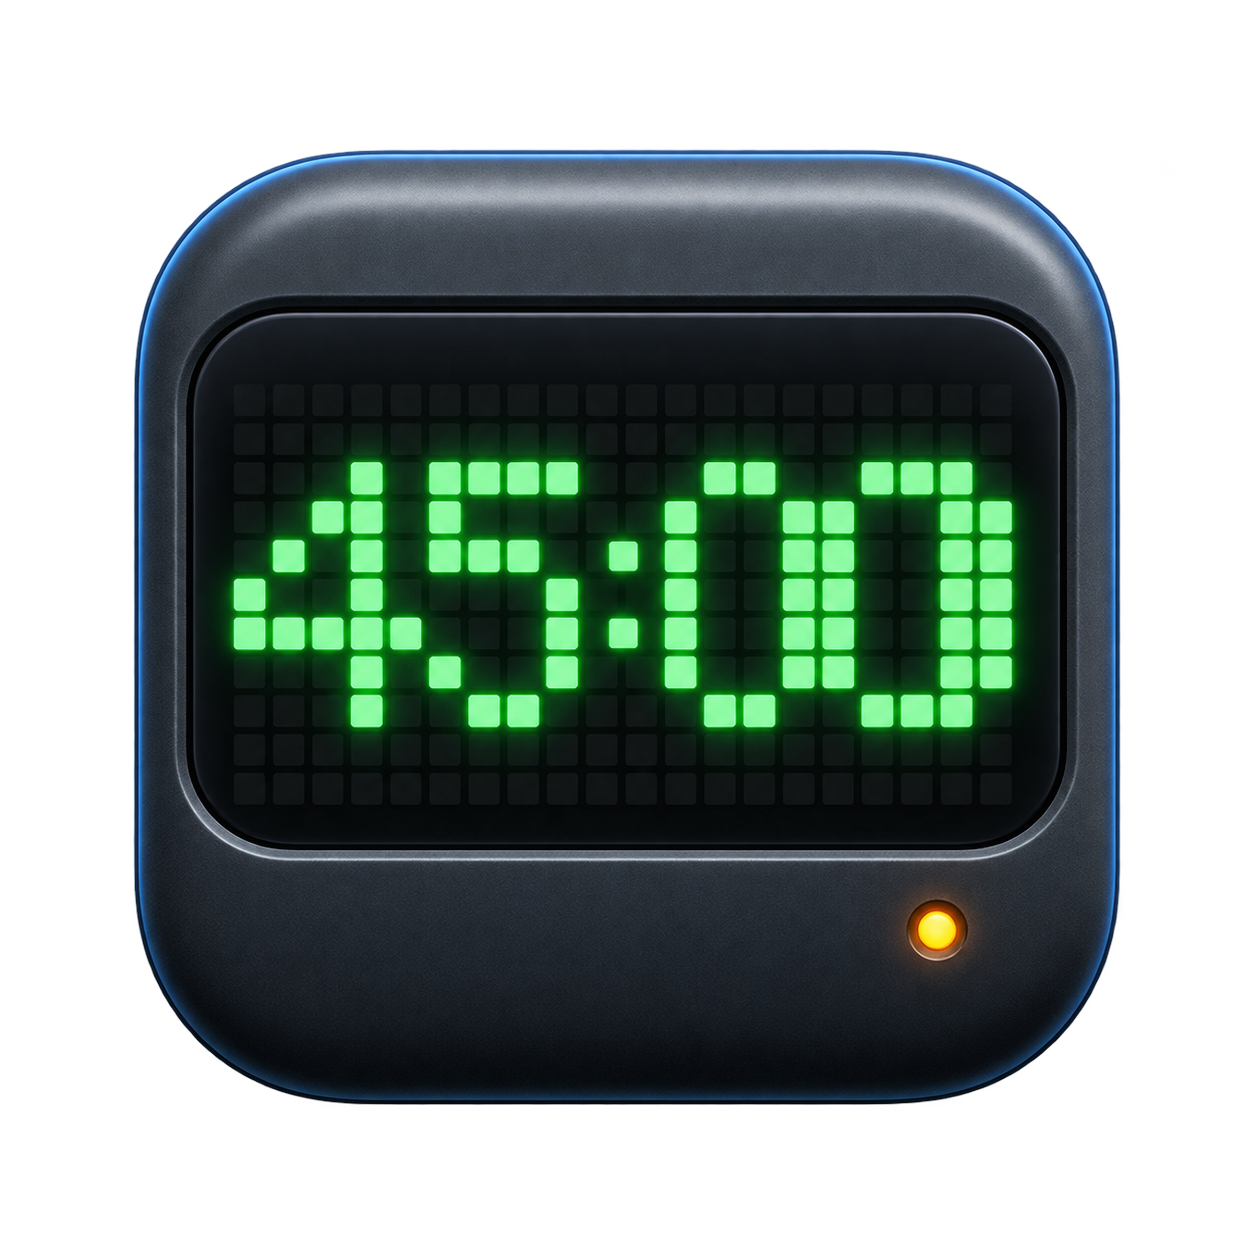
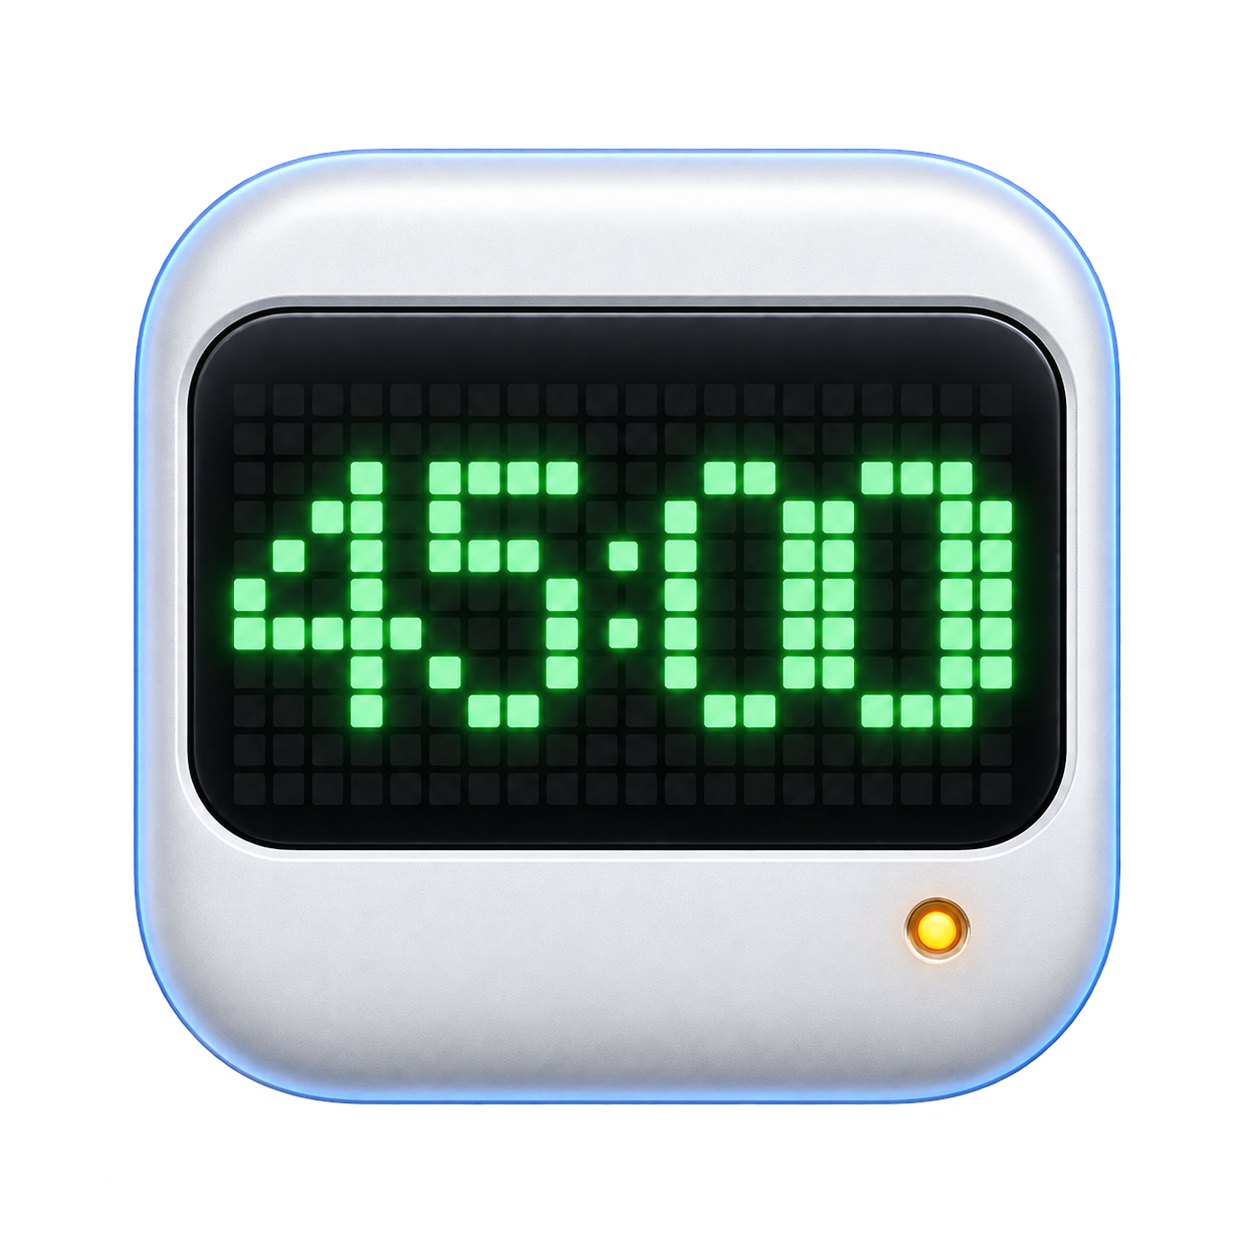
Refresh macOS GUI with adaptive liquid materials

diff --git a/mac-app/Sources/TC002FocusCompanion.swift b/mac-app/Sources/TC002FocusCompanion.swift
@@ -549,15 +549,19 @@ final class AppDelegate: NSObject, NSApplicationDelegate {
     private let environmentButton = NSButton(title: "检查运行环境", target: nil, action: nil); private let deviceButton = NSButton(title: "测试时钟连接", target: nil, action: nil); private let verifyLarkButton = NSButton(title: "验证 Lark 配置", target: nil, action: nil)
     private let selectAudioButton = NSButton(title: "更换提示音", target: nil, action: nil); private let resetAudioButton = NSButton(title: "恢复默认", target: nil, action: nil); private let audioStatusLabel = NSTextField(labelWithString: "当前使用默认提示音")
     private let advancedButton = NSButton(title: "显示高级设置", target: nil, action: nil)
+    private let appearancePicker = NSPopUpButton(frame: .zero, pullsDown: false)
     private let busyIndicator = NSProgressIndicator()
     private let operationIcon = NSImageView()
+    private weak var displayStackView: NSStackView?
+    private var appearanceObserver: NSKeyValueObservation?
     private var advancedSection: NSBox?
+    private var materialCards: [NSBox] = []
     private var readinessLabels: [NSTextField] = []
     private var readinessIcons: [NSImageView] = []
     private var readinessCards: [NSBox] = []
 
     static func main() { let app = NSApplication.shared; let delegate = AppDelegate(); app.delegate = delegate; app.setActivationPolicy(.regular); withExtendedLifetime(delegate) { app.run() } }
-    func applicationDidFinishLaunching(_ notification: Notification) { model.onChange = { [weak self] in self?.refresh() }; model.onEnvironmentInstallOffer = { [weak self] packages, message in self?.offerEnvironmentInstall(packages: packages, reason: message) }; buildWindow(); model.load(); populateFieldsFromModel(); refresh(); model.autoValidateSavedConfiguration() }
+    func applicationDidFinishLaunching(_ notification: Notification) { restoreAppearance(); model.onChange = { [weak self] in self?.refresh() }; model.onEnvironmentInstallOffer = { [weak self] packages, message in self?.offerEnvironmentInstall(packages: packages, reason: message) }; buildWindow(); model.load(); populateFieldsFromModel(); refresh(); model.autoValidateSavedConfiguration(); appearanceObserver = NSApp.observe(\.effectiveAppearance, options: [.new]) { [weak self] _, _ in self?.refreshDynamicAppearance() } }
     func applicationShouldTerminateAfterLastWindowClosed(_ sender: NSApplication) -> Bool { true }
     func applicationWillTerminate(_ notification: Notification) { collectFields(); model.save() }
 
@@ -684,7 +688,7 @@ final class AppDelegate: NSObject, NSApplicationDelegate {
     private func hero() -> NSView {
         let box = card()
         box.widthAnchor.constraint(equalToConstant: 736).isActive = true
-        box.heightAnchor.constraint(equalToConstant: 132).isActive = true
+        box.heightAnchor.constraint(equalToConstant: 158).isActive = true
 
         let icon = NSImageView(image: symbol("timer", size: 36, weight: .semibold))
         icon.contentTintColor = .systemGreen
@@ -705,7 +709,18 @@ final class AppDelegate: NSObject, NSApplicationDelegate {
         badge.layer?.cornerRadius = 8
         badge.layer?.backgroundColor = NSColor.systemGreen.withAlphaComponent(0.10).cgColor
         badge.heightAnchor.constraint(equalToConstant: 22).isActive = true
-        let copy = NSStackView(views: [title, subtitle, badge])
+        appearancePicker.removeAllItems()
+        appearancePicker.addItems(withTitles: ["跟随系统", "浅色", "深色"])
+        appearancePicker.selectItem(at: appearanceIndex())
+        appearancePicker.target = self
+        appearancePicker.action = #selector(appearanceChanged)
+        appearancePicker.bezelStyle = .rounded
+        appearancePicker.controlSize = .small
+        appearancePicker.font = .systemFont(ofSize: 11, weight: .medium)
+        appearancePicker.widthAnchor.constraint(equalToConstant: 118).isActive = true
+        appearancePicker.heightAnchor.constraint(equalToConstant: 24).isActive = true
+        appearancePicker.toolTip = "默认跟随 macOS 外观，也可以在这里临时切换"
+        let copy = NSStackView(views: [title, subtitle, badge, appearancePicker])
         copy.orientation = .vertical
         copy.alignment = .leading
         copy.spacing = 5
@@ -723,12 +738,13 @@ final class AppDelegate: NSObject, NSApplicationDelegate {
         displayStack.alignment = .centerX
         displayStack.spacing = 0
         displayStack.wantsLayer = true
-        displayStack.layer?.backgroundColor = NSColor(calibratedWhite: 0.035, alpha: 1).cgColor
+        displayStack.layer?.backgroundColor = NSColor.textBackgroundColor.withAlphaComponent(0.82).cgColor
         displayStack.layer?.cornerRadius = 12
         displayStack.layer?.borderWidth = 1
-        displayStack.layer?.borderColor = NSColor.white.withAlphaComponent(0.08).cgColor
+        displayStack.layer?.borderColor = NSColor.separatorColor.withAlphaComponent(0.35).cgColor
         displayStack.widthAnchor.constraint(equalToConstant: 170).isActive = true
         displayStack.heightAnchor.constraint(equalToConstant: 66).isActive = true
+        displayStackView = displayStack
 
         let row = NSStackView(views: [icon, copy, NSView(), displayStack])
         row.orientation = .horizontal
@@ -796,10 +812,11 @@ final class AppDelegate: NSObject, NSApplicationDelegate {
         let box = NSBox()
         box.boxType = .custom
         box.titlePosition = .noTitle
-        box.cornerRadius = 14
+        box.cornerRadius = 18
         box.borderWidth = 1
-        box.borderColor = NSColor.separatorColor.withAlphaComponent(0.45)
-        box.fillColor = NSColor.controlBackgroundColor.withAlphaComponent(0.80)
+        box.borderColor = materialBorderColor()
+        box.fillColor = materialFillColor()
+        materialCards.append(box)
         return box
     }
 
@@ -971,6 +988,62 @@ final class AppDelegate: NSObject, NSApplicationDelegate {
         let configuration = NSImage.SymbolConfiguration(pointSize: size, weight: weight)
         return (NSImage(systemSymbolName: name, accessibilityDescription: nil) ?? NSImage()).withSymbolConfiguration(configuration) ?? NSImage()
     }
+    private func appearancePreference() -> String {
+        UserDefaults.standard.string(forKey: "TC002.appearance") ?? "system"
+    }
+    private func isDarkAppearance() -> Bool {
+        NSApp.effectiveAppearance.bestMatch(from: [.aqua, .darkAqua]) == .darkAqua
+    }
+    private func materialFillColor() -> NSColor {
+        isDarkAppearance() ? NSColor(calibratedWhite: 0.14, alpha: 1) : NSColor(calibratedWhite: 0.98, alpha: 1)
+    }
+    private func materialBorderColor() -> NSColor {
+        isDarkAppearance() ? NSColor.white.withAlphaComponent(0.16) : NSColor.black.withAlphaComponent(0.12)
+    }
+    private func displayFillColor() -> NSColor {
+        isDarkAppearance() ? NSColor(calibratedWhite: 0.06, alpha: 1) : NSColor(calibratedWhite: 0.92, alpha: 1)
+    }
+    private func logFillColor() -> NSColor {
+        isDarkAppearance() ? NSColor(calibratedWhite: 0.09, alpha: 1) : NSColor(calibratedWhite: 0.96, alpha: 1)
+    }
+    private func appearanceIndex() -> Int {
+        switch appearancePreference() {
+        case "light": return 1
+        case "dark": return 2
+        default: return 0
+        }
+    }
+    private func restoreAppearance() {
+        applyAppearance(appearancePreference(), persist: false)
+    }
+    private func applyAppearance(_ value: String, persist: Bool) {
+        switch value {
+        case "light": NSApp.appearance = NSAppearance(named: .aqua)
+        case "dark": NSApp.appearance = NSAppearance(named: .darkAqua)
+        default: NSApp.appearance = nil
+        }
+        if persist { UserDefaults.standard.set(value, forKey: "TC002.appearance") }
+        refreshDynamicAppearance()
+    }
+    private func refreshDynamicAppearance() {
+        for box in materialCards where !readinessCards.contains(where: { $0 === box }) {
+            box.fillColor = materialFillColor()
+            box.borderColor = materialBorderColor()
+        }
+        displayStackView?.layer?.backgroundColor = displayFillColor().cgColor
+        displayStackView?.layer?.borderColor = materialBorderColor().cgColor
+        logView.backgroundColor = logFillColor()
+        logView.textColor = NSColor.labelColor
+    }
+    @objc private func appearanceChanged() {
+        let value: String
+        switch appearancePicker.indexOfSelectedItem {
+        case 1: value = "light"
+        case 2: value = "dark"
+        default: value = "system"
+        }
+        applyAppearance(value, persist: true)
+    }
     private func collectFields() { model.deviceIP = deviceField.stringValue; model.hostIP = hostField.stringValue; model.focusMinutes = focusField.stringValue; model.restMinutes = restField.stringValue; model.appID = appIDField.stringValue; model.appSecret = appSecretField.stringValue; model.repoPath = repoField.stringValue }
     private func populateFieldsFromModel() { deviceField.stringValue = model.deviceIP; hostField.stringValue = model.hostIP; focusField.stringValue = model.focusMinutes; restField.stringValue = model.restMinutes; appIDField.stringValue = model.appID; repoField.stringValue = model.repoPath }
     private func updateReadiness(_ index: Int, title: String, ready: Bool, partial: Bool = false) {
@@ -998,6 +1071,7 @@ final class AppDelegate: NSObject, NSApplicationDelegate {
             if let container = self.logView.textContainer { self.logView.layoutManager?.ensureLayout(for: container) }
             self.logView.needsDisplay = true
             self.logView.scrollToEndOfDocument(nil)
+            self.refreshDynamicAppearance()
             self.updateReadiness(0, title: self.model.isEnvironmentReady ? "环境就绪" : "待检查环境", ready: self.model.isEnvironmentReady)
             self.updateReadiness(1, title: self.model.isLarkVerified ? "Lark 已验证" : (self.model.isAuthorized ? "Lark 待验证" : "待授权 Lark"), ready: self.model.isLarkVerified, partial: self.model.isAuthorized)
             self.updateReadiness(2, title: self.model.isDeviceReachable ? "TC002 已连接" : "待连接 TC002", ready: self.model.isDeviceReachable)

diff --git a/mac-app/README.md b/mac-app/README.md
@@ -12,7 +12,7 @@
 
 界面会显示环境、Lark、TC002 和后台服务的独立就绪状态。OAuth 输出会实时出现在日志区，启动时会按 1/4–4/4 显示当前进度。
 
-当前界面采用原生 macOS 卡片式布局，支持浅色和深色模式。顶部集中展示产品状态和 TC002 点阵预览，四个就绪状态均同时提供图标、文字和语义色。专注与休息时长限制为 1–240 分钟；“启动专注时钟”是主要操作，停止助手和恢复原生界面保持为次要操作。
+当前界面采用原生 macOS 卡片式布局，并使用轻量的半透明材质、圆角层次和动态系统颜色。顶部外观菜单默认“跟随系统”，也可临时切换“浅色”或“深色”；四个就绪状态均同时提供图标、文字和语义色。专注与休息时长限制为 1–240 分钟；“启动专注时钟”是主要操作，停止助手和恢复原生界面保持为次要操作。
 
 “高级设置”默认折叠。项目目录会优先使用 App 内置资源并自动识别源码目录，普通用户无需填写；只有开发者使用自定义检出位置时才需要展开修改。
 

diff --git a/README.md b/README.md
@@ -29,7 +29,7 @@ Lark“专注中”系统状态同步出去。默认是专注 45 分钟、休息
 ## 界面与视觉
 
 - macOS GUI 使用原生状态卡片和四步引导，环境、Lark、TC002、电脑助手是否就绪一眼可见；
-- 支持浅色/深色模式，主要操作、警告和运行状态同时使用文字、图标与语义色，不只依赖颜色；
+- GUI 默认跟随 macOS 外观，也可在顶部切换浅色/深色；卡片使用轻量半透明材质和动态系统颜色，主要操作、警告和运行状态同时使用文字、图标与语义色，不只依赖颜色；
 - TC002 专注阶段保持绿色，休息阶段保持蓝色，最后 30 秒不会突然变红；
 - 专注结束显示蓝色 `GO REST`，休息结束显示绿色 `GO WORK`，内容左右对称并尽量铺满 52×16 点阵；
 - macOS App 已包含专用图标，并提供 Intel 与 Apple Silicon 通用构建。
